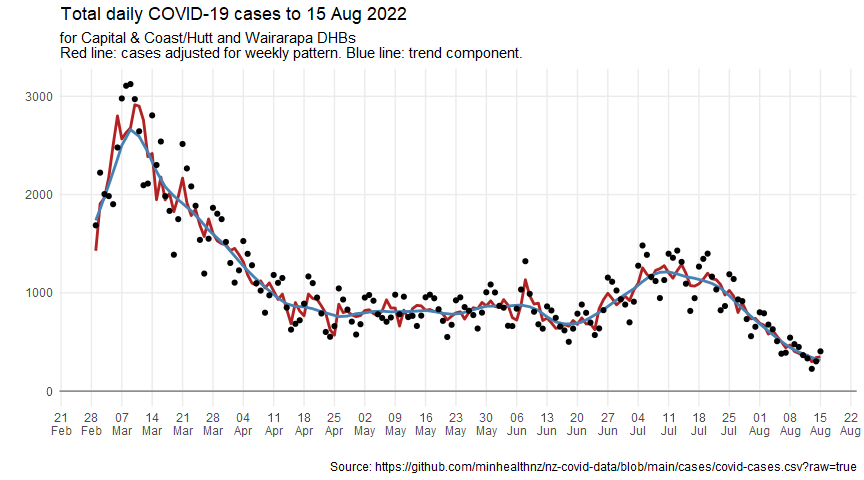
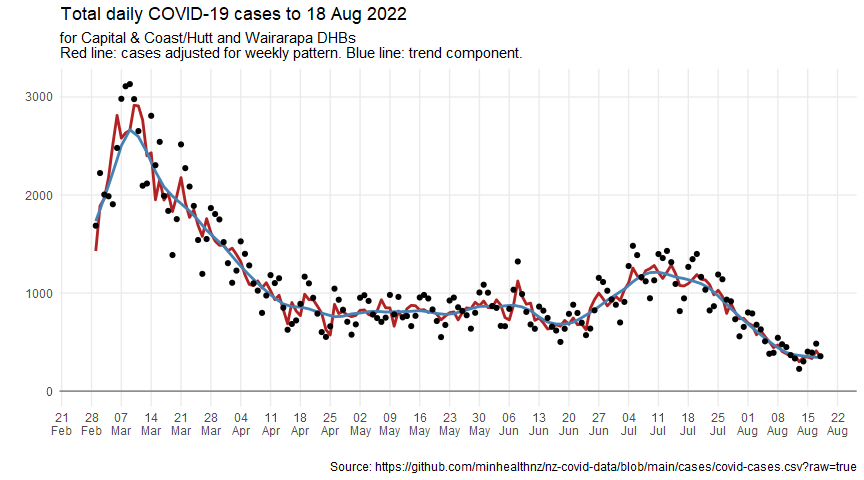
Update for 20220819

diff --git a/covid-post-peak-analysis.md b/covid-post-peak-analysis.md
@@ -29,7 +29,7 @@ cases_df <- read_csv(case_data_url) %>%
   clean_names()
 ```
 
-    ## Rows: 1696239 Columns: 7
+    ## Rows: 1709541 Columns: 7
     ## ── Column specification ────────────────────────────────────────────────────────
     ## Delimiter: ","
     ## chr  (5): Case Status, Sex, Age group, DHB, Overseas travel
@@ -46,7 +46,7 @@ cases_by_dhb_df <- cases_df %>%
   count(report_date, dhb, case_status)
 ```
 
-## Wellington figures up to 15 Aug 2022
+## Wellington figures up to 18 Aug 2022
 
 Including Hutt and Wairarapa as well as CCDHB.
 
@@ -171,7 +171,7 @@ Looking at raw case numbers, the peak on 9 Mar 2022 was about 13.8 times
 the lowest recent value.
 
 But when adjusting for the weekly pattern, it was 9.7 times the lowest
-recent adjusted value, and the trend was about 8.5 times the lowest
+recent adjusted value, and the trend was about 7.8 times the lowest
 recent trend line.
 
 While the trend might be over-smoothed, the peak coincinded with the
